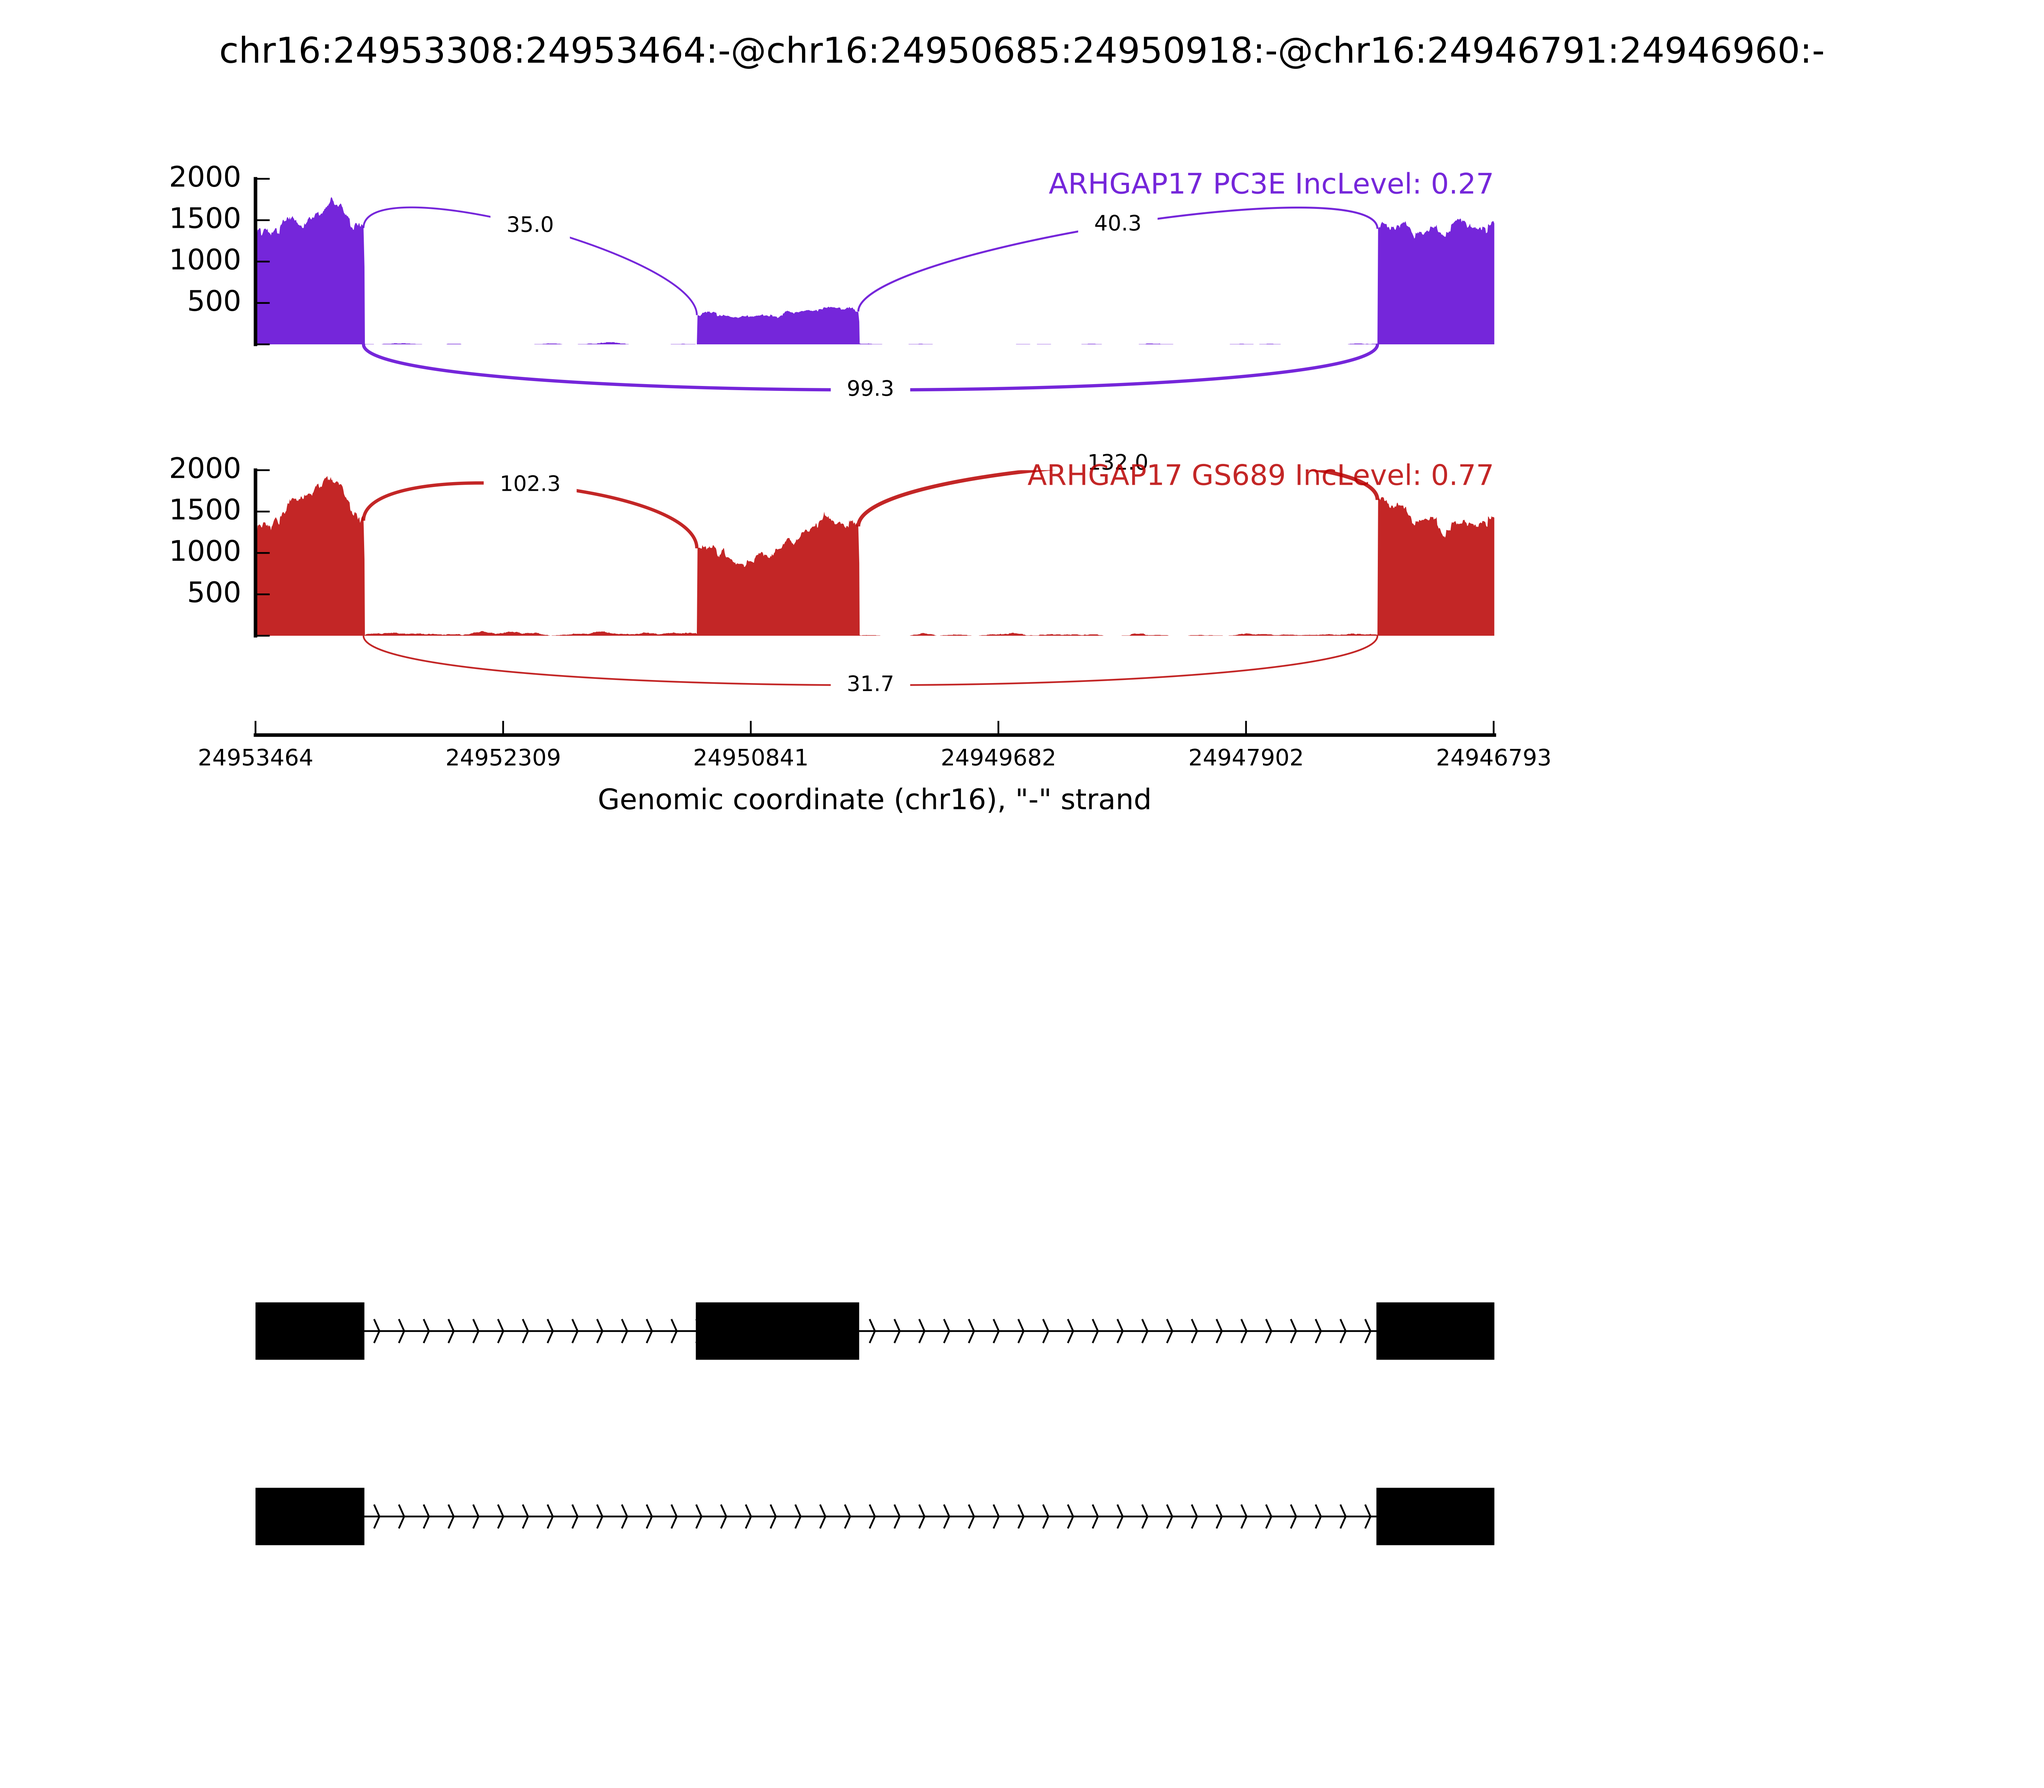
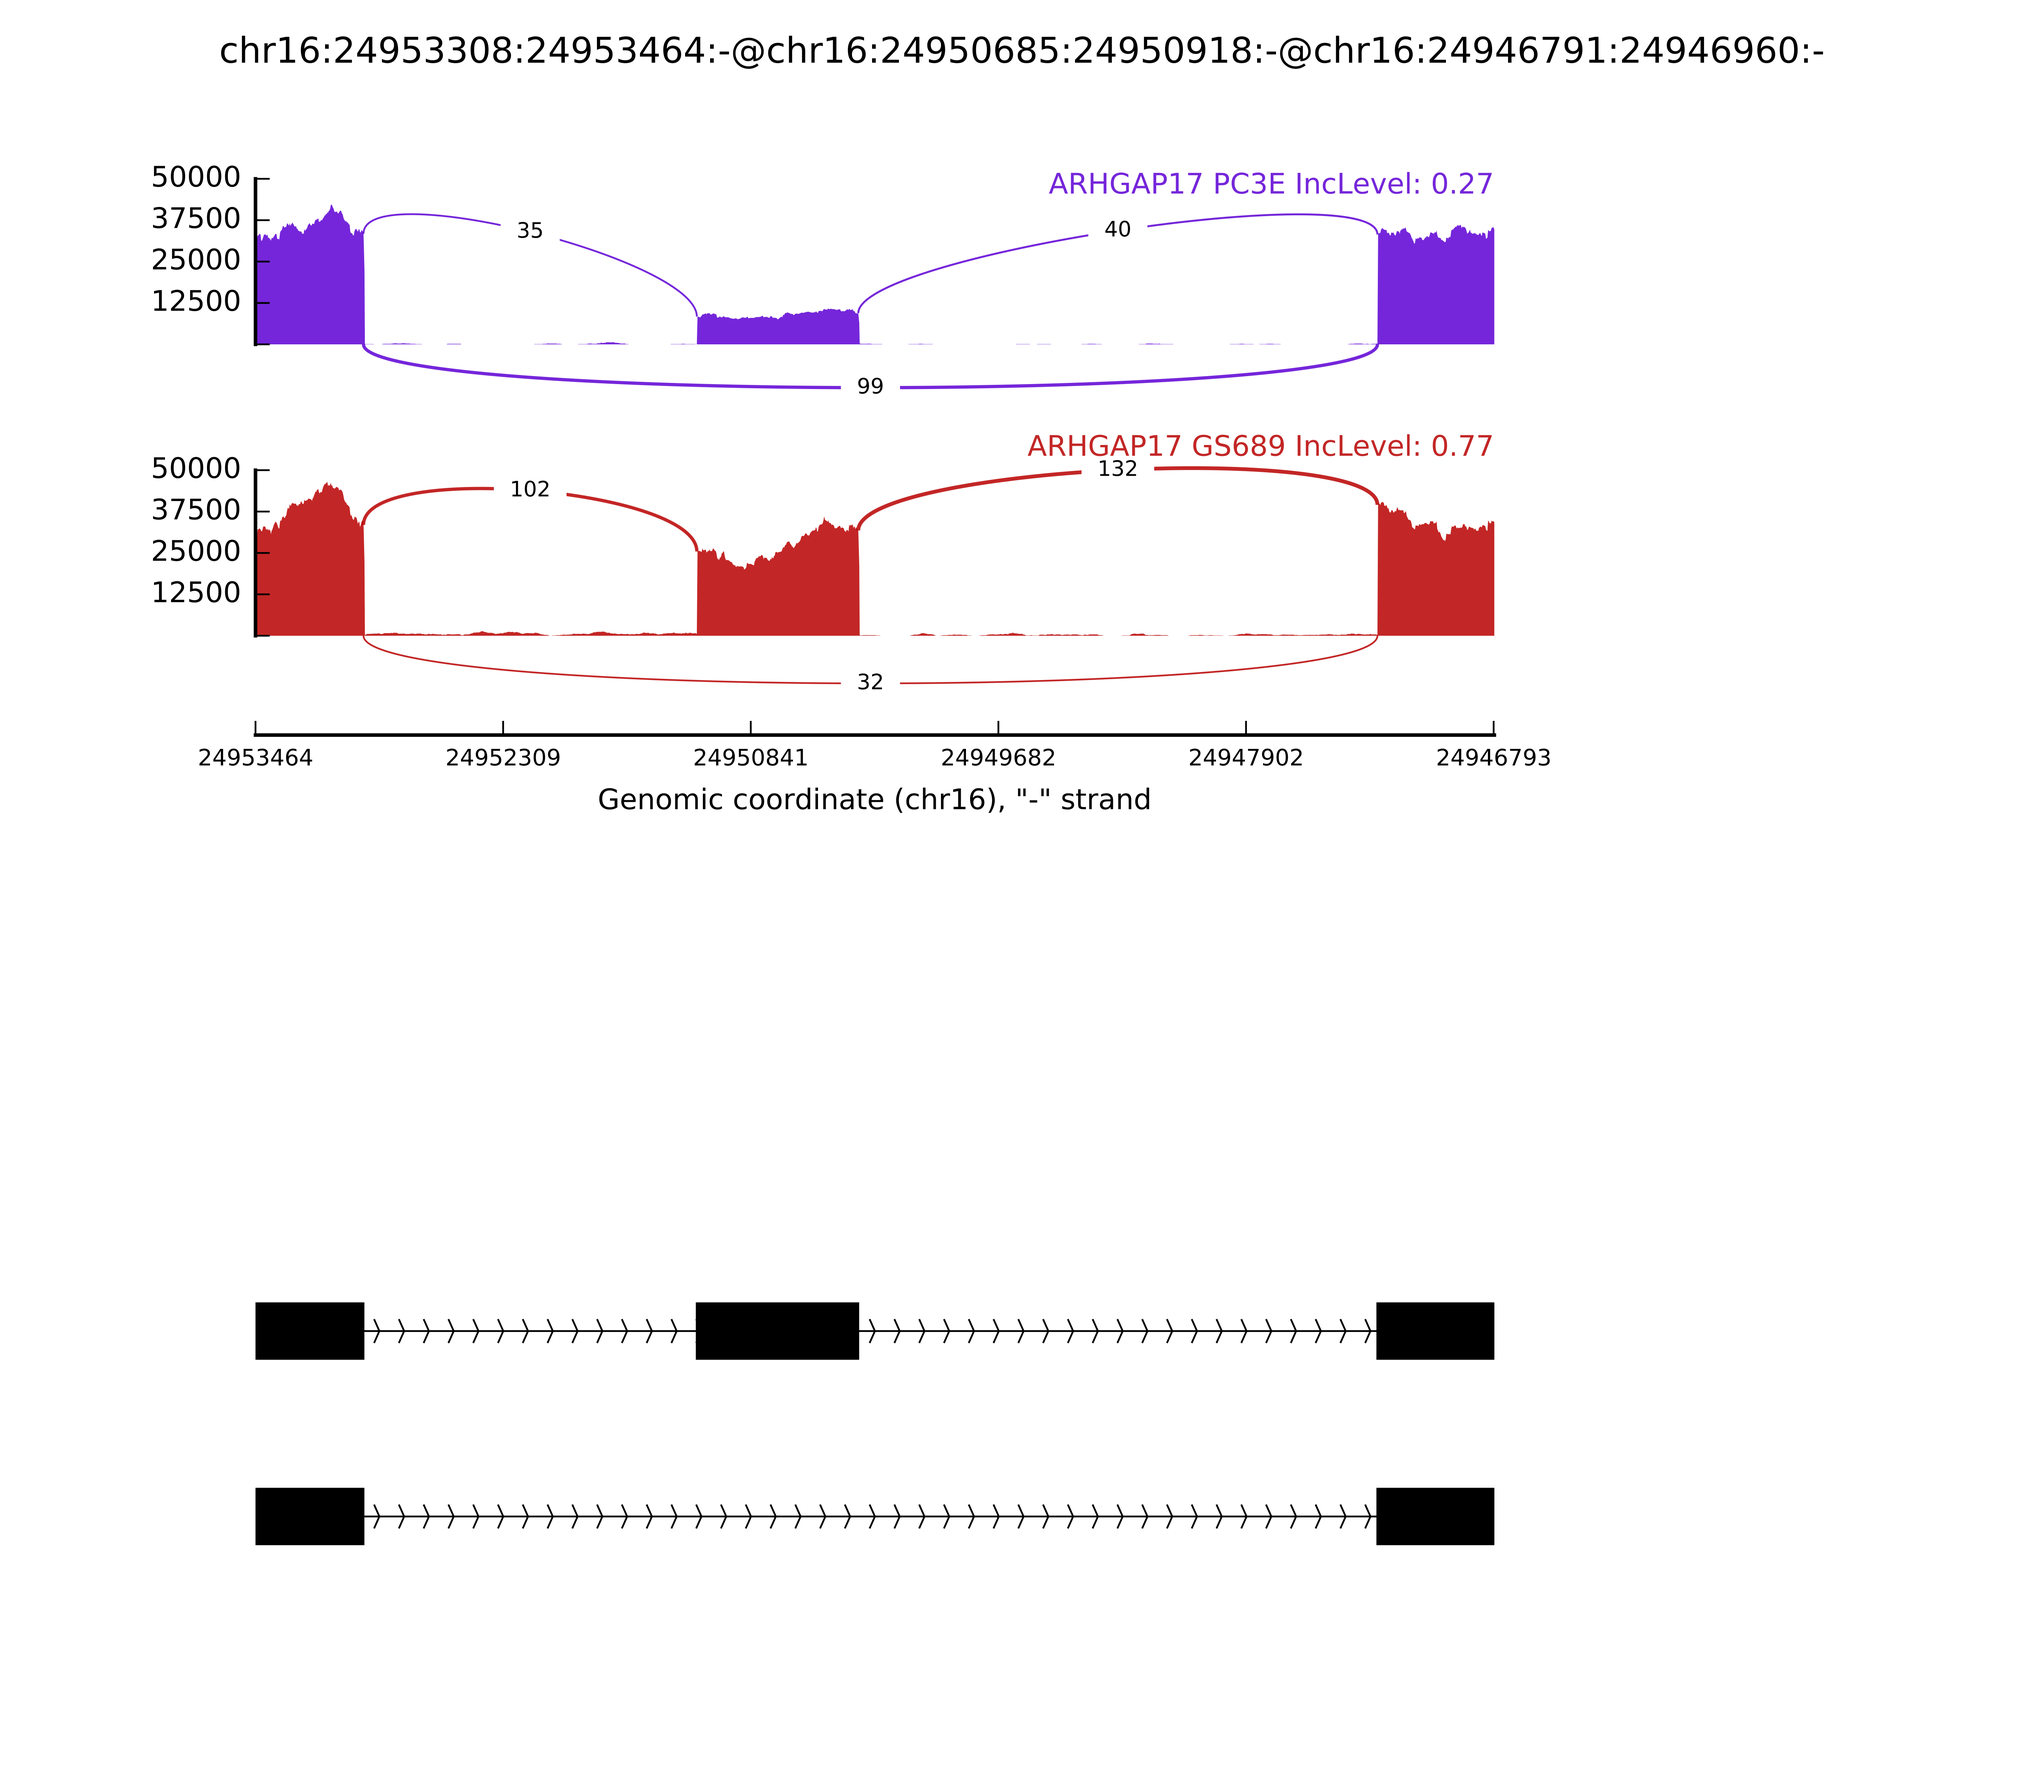
Added information for y-axis(Using a modified RPKM). Show Y-axis label now.

diff --git a/src/rmats2sashimiplot/rmats2sashimiplot.py b/src/rmats2sashimiplot/rmats2sashimiplot.py
@@ -121,7 +121,7 @@ def conf_setting_file(options, gene_no_str=None, gene_symbol=None, events_name_l
         setting["nxticks"] = 11
     else:
         setting["nxticks"] = 6
-    setting["show_ylabel"] = False
+    setting["show_ylabel"] = True
     setting["show_xlabel"] = True
     setting["plot_title"] = "\"gene symbol\""
     setting["plot_label"] = "plot_label"

diff --git a/README.md b/README.md
@@ -22,6 +22,12 @@ Installation
 The package, rmats2sashimiplot is installed by typing:
 
     python setup.py install
+    
+### Update ###
+To update rmats2sashimiplot, please download (or git pull) latest version from Github and type in:
+
+    pip uninstall rmats2sashimiplot
+    python setup.py install
 
 Usage
 -----
@@ -97,7 +103,7 @@ Using grouping function:
 
 ### Grouping
 
-By using this function, user can divide their samples into different groups. Our program will calculate average inclusion level, average read depth and average number of junction-spanning reads of each group and display them in sashimi plot.
+By using this function, user can divide their samples into different groups. rmats2sashimiplot calculates the average inclusion level, the average read depth and the average number of junction-spanning reads of each group and display them in sashimi plot.
 It's extremely helpful when you need to do comparisons between different groups of samples.
 
 
@@ -137,7 +143,7 @@ Each line stand for a group, which consists of *group name* and *index* of bam f
 
 ***Important notes:*** Index starts from 1. And the order of bam files corresponds to the order we specified in --b1/b2/s1/s2, i.e. concatenate --b1 and --b2 (or --s1 and --s2 if you're using them.). User can confirm this order by checking variable `bam_files` in `sashimi_plot_settings.txt`(under Sashimi_index_* folder.)
 
-Index should be seperated by `','`. And use `'-'` to express a sequence.
+Index should be seperated by `','`. And use `'-'` to specify a sequence.
 
 **Eg:**
 
@@ -168,6 +174,19 @@ http://www.mimg.ucla.edu/faculty/xing/rmats2sashimiplot/testData.tar
 ### Output ###
 
 All output sashimiplot pdf files are in Sashimi_plot folder
+
+### FAQ
+
+Q: What does the y-axis represent?
+
+A: MISO is the actual plotting backend of rmats2sashimiplot, so they have almost the same mechanism of plotting. The y-axis represents a modified RPKM value.
+
+![images](https://github.com/Xinglab/rmats2sashimiplot/blob/master/img/RPKM.png)
+
+Q: How does rmats2sashimiplot calculate junction count, read density(modified RPKM) and inclusion level in the grouping mode?
+
+A: rmats2sashimiplot uses a modified Sashimi plot proposed by SplicePlot(Wu, Nance, & Montgomery, 2014). Briefly, rmats2sashimiplot calculates the average read depth and the average number of junction-spanning reads for groups.
+
 
 Contacts and bug reports
 ------------------------
